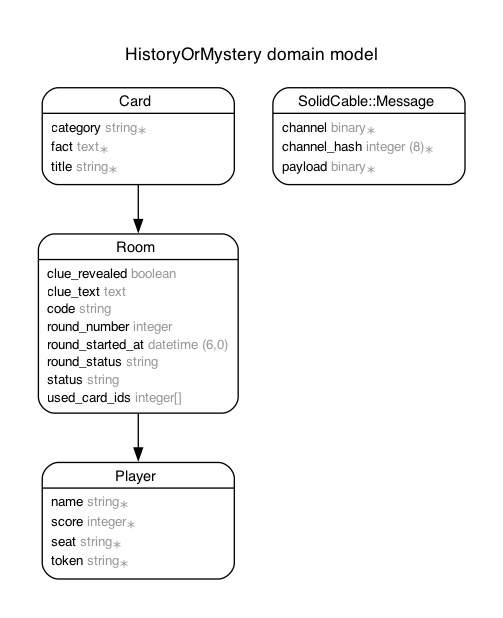
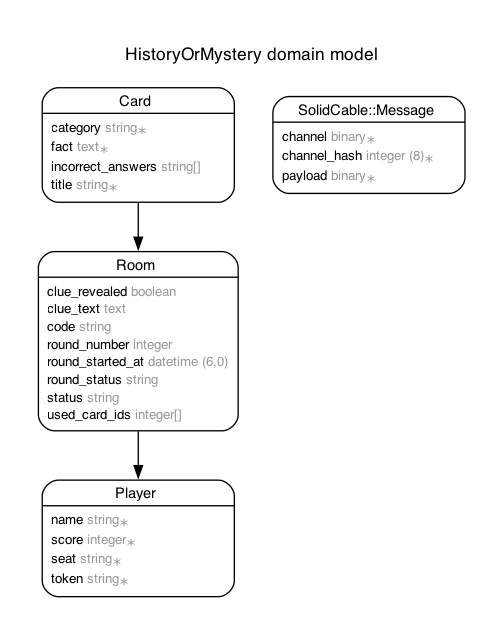
feat: Add incorrect_answers column and polish styling - Update generate_facts rake task to seed incorrect answers - Add divs and classes to gameplay partial - Update button and form styling - Add incorrect answers to cards

Changed region(s): [[0.0596, 0.0615, 0.9245, 0.7071], [0.0895, 0.7071, 0.4771, 0.9531]]

diff --git a/app/assets/stylesheets/application.css b/app/assets/stylesheets/application.css
@@ -73,7 +73,7 @@ form {
   margin: 2rem auto;
 }
 
-.card {
+.game-status-wrapper, .card {
   width: 80%;
   min-height: 28rem;
   box-sizing: border-box;
@@ -86,6 +86,7 @@ form {
   justify-content: center;
   align-items: center;
   margin-bottom: 1.25rem;
+  padding: 1rem;
 }
 
 .card:hover {
@@ -142,4 +143,21 @@ form {
   justify-content: center;
   align-items: center;
   height: 100vh;
+}
+
+ul {
+  margin: 0;
+}
+
+.drawer-actions, .guesser-actions {
+  display: flex;
+  flex-direction: column;
+  gap: 2rem;
+  width: 80%
+}
+
+.player-button {
+  width: 80%;
+  height: 3rem;
+  padding: 0.5rem;
 }

diff --git a/db/schema.rb b/db/schema.rb
@@ -10,7 +10,7 @@
 #
 # It's strongly recommended that you check this file into your version control system.
 
-ActiveRecord::Schema[8.1].define(version: 2026_08_13_200220) do
+ActiveRecord::Schema[8.1].define(version: 2026_08_14_163407) do
   # These are extensions that must be enabled in order to support this database
   enable_extension "pg_catalog.plpgsql"
 
@@ -18,6 +18,7 @@ ActiveRecord::Schema[8.1].define(version: 2026_08_13_200220) do
     t.string "category", null: false
     t.datetime "created_at", null: false
     t.text "fact", null: false
+    t.string "incorrect_answers", default: [], array: true
     t.string "title", null: false
     t.datetime "updated_at", null: false
   end
@@ -53,6 +54,16 @@ ActiveRecord::Schema[8.1].define(version: 2026_08_13_200220) do
     t.index ["current_card_id"], name: "index_rooms_on_current_card_id"
     t.index ["drawer_player_id"], name: "index_rooms_on_drawer_player_id"
     t.index ["guesser_player_id"], name: "index_rooms_on_guesser_player_id"
+  end
+
+  create_table "solid_cable_messages", force: :cascade do |t|
+    t.binary "channel", null: false
+    t.bigint "channel_hash", null: false
+    t.datetime "created_at", null: false
+    t.binary "payload", null: false
+    t.index ["channel"], name: "index_solid_cable_messages_on_channel"
+    t.index ["channel_hash"], name: "index_solid_cable_messages_on_channel_hash"
+    t.index ["created_at"], name: "index_solid_cable_messages_on_created_at"
   end
 
   add_foreign_key "players", "rooms"

diff --git a/db/migrate/20260814163407_add_incorrect_answers_to_cards.rb b/db/migrate/20260814163407_add_incorrect_answers_to_cards.rb
@@ -1,0 +1,5 @@
+class AddIncorrectAnswersToCards < ActiveRecord::Migration[8.1]
+  def change
+    add_column :cards, :incorrect_answers, :string, array: true, default: []
+  end
+end

diff --git a/README.md b/README.md
@@ -132,3 +132,4 @@ These are the future improvements I would make and gaps I identified:
 - **Stale trivia cards.** I added a configuration to run a Render cronjob to refresh the cards; however, Render's free-tier charges for cron job service. I am manually seeding the database with more trivia cards while I find another alternative.
 - **Fixed 3-round game length, single clue per round, and varied question difficulties.** Difficulty levels (OpenTDB has a `difficulty` field), a three-clue system, and a multiple-choice answer mode were all considered and deferred for future implementation. Difficulty levels vary, making certain questions significantly harder than others. 
 - **No visible scoreboard.** Player names are tracked in the database and scores are incremented correctly, but are not displayed in the UI. Currently, a player has no way to see the score mid-game.
+- **Additional game modes.** (Time challenge mode) that introduces time constraints. The guesser will have 90 seconds to make a guess. If they run out of time, it's an automatic forfeit. 
